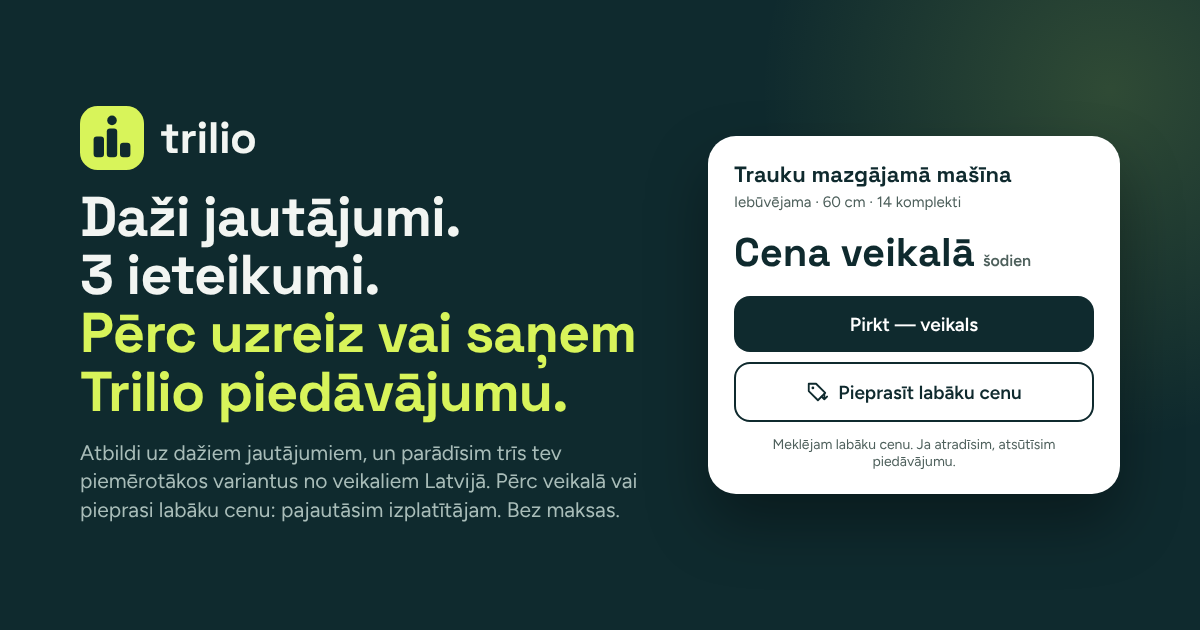
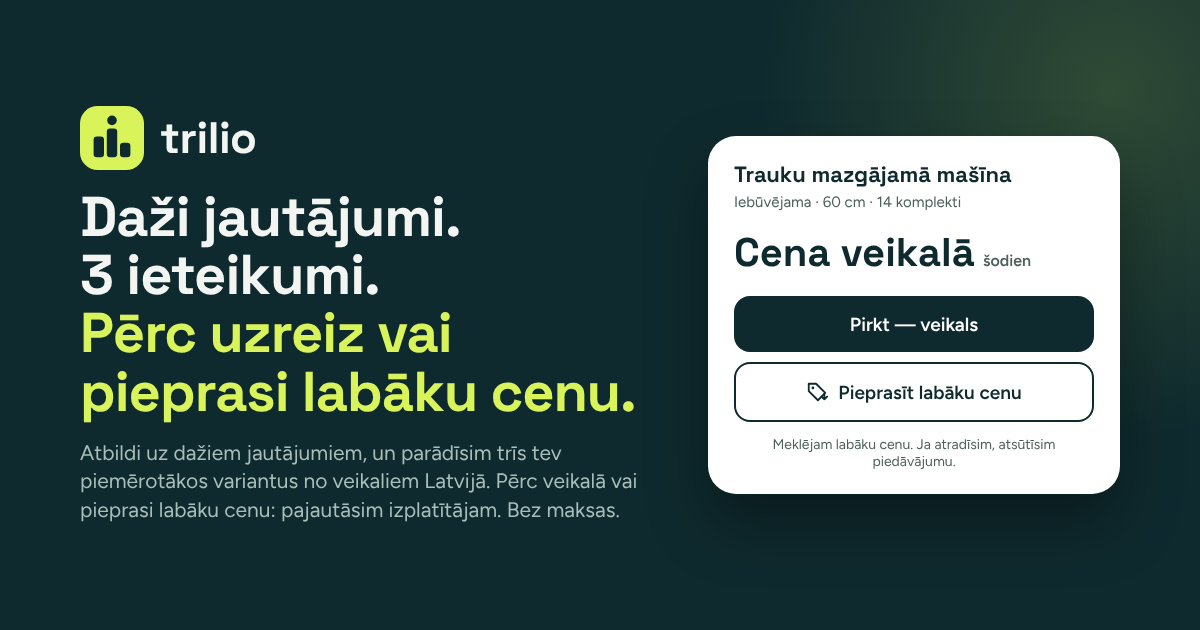
Tagline everywhere: "Daži jautājumi. 3 ieteikumi. Pērc uzreiz vai pieprasi labāku cenu."
Replaces "Trīs labākie. Bez meklēšanas." in the site title and tagline
(lv, en, lt, et), the ads creative fallback, the share-image alt text
and docs/BRAND.md; the Facebook cover and public/og.png carry the same
line. Three beats in the order the shopper lives them; the third uses
the button's own words.

Claude-Session: https://claude.ai/code/session_015HBUkb7GNF5eP3hcTPAs8j

Changed region(s): [[0.0617, 0.573, 0.5242, 0.6635], [0.37, 0.5127, 0.555, 0.573]]

diff --git a/src/app/[locale]/seo.ts b/src/app/[locale]/seo.ts
@@ -9,8 +9,8 @@ import { appBaseUrl } from "@/services/payments";
 // own title spread openGraphBase() to keep the site name, locale and share image.
 
 const OG_ALT: Record<UiLocale, string> = {
-  lv: "Trilio — daži jautājumi, 3 ieteikumi. Pērc uzreiz vai saņem Trilio piedāvājumu.",
-  en: "Trilio — a few questions, 3 picks. Buy now or get a Trilio offer.",
+  lv: "Trilio — daži jautājumi, 3 ieteikumi. Pērc uzreiz vai pieprasi labāku cenu.",
+  en: "Trilio — a few questions, 3 picks. Buy now or ask for a better price.",
 };
 const OG_LOCALE: Record<UiLocale, string> = { lv: "lv_LV", en: "en_GB" };
 

diff --git a/src/services/ads/creatives.tsx b/src/services/ads/creatives.tsx
@@ -361,7 +361,7 @@ export async function renderCreative(
   const coverage =
     facts.products > 0
       ? `Izskatām ${facts.products} preces ${facts.shops} ${facts.shops === 1 ? "veikalā" : "veikalos"}`
-      : "Trīs labākie. Bez meklēšanas.";
+      : "Daži jautājumi. 3 ieteikumi. Pērc uzreiz vai pieprasi labāku cenu.";
   const category = short(c.subcategoryId);
   const chip = (u: number) => (
     <div

diff --git a/docs/BRAND.md b/docs/BRAND.md
@@ -12,7 +12,7 @@
 - **Wordmark:** "trilio" in lowercase, Space Grotesk 700, letter-spacing −0.045em.
 - **Versions:** lime mark on dark (primary); dark mark with lime bars on light; bars only on lime. The app icon uses radius 9.
 - **Clear space:** ≥ ⅓ of the mark's width around it.
-- **Tagline:** "Trīs labākie. Bez meklēšanas." (EN: "Three best picks. No searching.")
+- **Tagline (owner, 31 Oct 2026):** "Daži jautājumi. 3 ieteikumi. Pērc uzreiz vai pieprasi labāku cenu." (EN: "A few questions. 3 picks. Buy now or ask for a better price."). Three beats in the order the shopper lives them; the third beat uses the button's own words, so the line teaches the product. The earlier "Trīs labākie. Bez meklēšanas." is retired: it read as misleading once the better-price request became the point.
 
 ## Colours
 | Token | Hex | Use |
